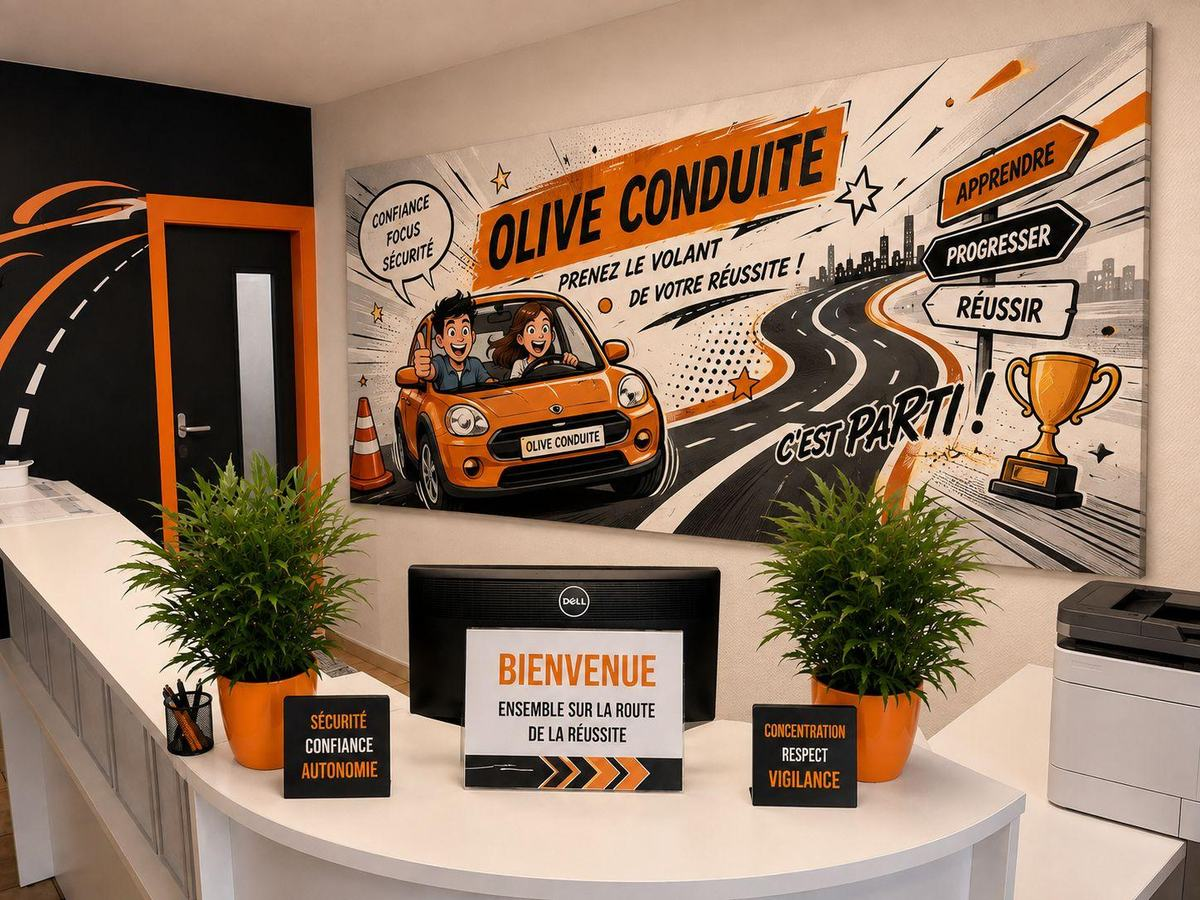
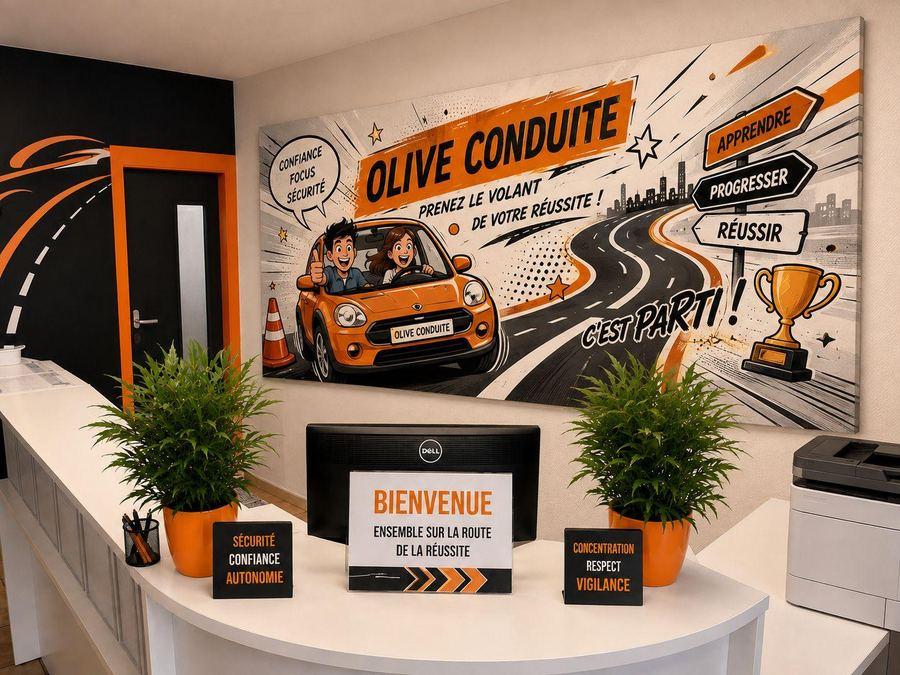
Add files via upload

diff --git a/index.html b/index.html
@@ -327,9 +327,10 @@ textarea{min-height:110px;resize:vertical}
   .pc{max-width:250px}
 }
 .pw{position:relative;max-width:520px;margin:26px auto 0}
-.pw-wide{max-width:820px;margin-top:40px}
+.pw-wide{max-width:430px;margin-top:40px}
+@media(max-width:560px){.pw-wide{max-width:290px;margin-top:32px}}
 .pw::after{content:"";position:absolute;inset:0;border-radius:28px;background:var(--orange);transform:translate(16px,16px);z-index:0}
-.pw img{position:relative;z-index:1;width:100%;border-radius:28px;border:5px solid var(--black);display:block;filter:saturate(.95) contrast(1.03)}
+.pw img{position:relative;z-index:1;width:100%;height:auto;border-radius:28px;border:5px solid var(--black);display:block;filter:saturate(.95) contrast(1.03)}
 .pc-name{position:absolute;z-index:2;left:50%;bottom:-14px;transform:translateX(-50%);background:var(--black);color:#fff;padding:9px 18px 7px;font-family:"Big Shoulders Display",sans-serif;font-weight:800;font-size:1.4rem;line-height:1;text-align:center;max-width:96%}
 .pc-name small{display:block;font-family:"Barlow",sans-serif;font-size:.68rem;font-weight:400;color:#bdb7af;letter-spacing:.05em;margin-top:3px}
 .agence{display:grid;grid-template-columns:1fr 1fr;gap:48px;align-items:center;margin-bottom:56px}
@@ -1514,9 +1515,9 @@ footer a{color:#c9c3bb}
     </div>
     <div class="pw pw-wide">
       <img src="agence-interieur.jpg" alt="L'accueil d'Olive Conduite : le comptoir, la fresque murale et les mots d'accueil"
-           width="1200" height="900" loading="lazy">
+           width="900" height="675" loading="lazy">
     </div>
-    <p class="pc-cap">L'accueil, sous la fresque. Sécurité, confiance, autonomie d'un côté, concentration, respect, vigilance de l'autre. Ce ne sont pas des slogans posés là, ce sont les neuf compétences du Permis Score en langage courant.</p>
+    <p class="pc-cap" style="max-width:430px">L'accueil, sous la fresque. Sécurité, confiance, autonomie d'un côté, concentration, respect, vigilance de l'autre. Ce ne sont pas des slogans posés là, ce sont les neuf compétences du Permis Score en langage courant.</p>
   </div>
 
   <div class="wrap rdv">
